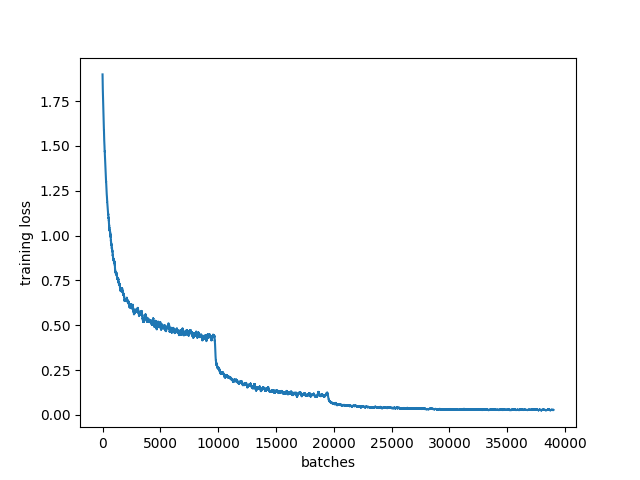
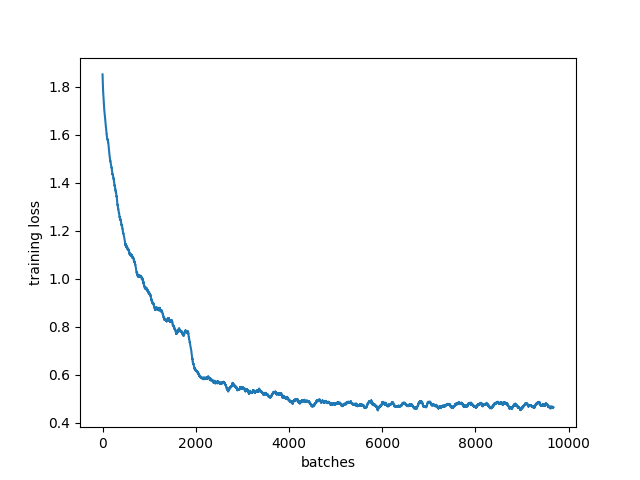
0510

diff --git a/final_project.py b/final_project.py
@@ -445,9 +445,9 @@ def implicit_block_newton_train(epoch, train_loss_tracker, train_acc_tracker):
 
 
 
-method = 'explicit' # SGD, explicit, implicit, newton
+method = 'SGD' # SGD, explicit, implicit, newton
 device = 'cuda'
-net = SmallConvNet()
+net = ConvNet()
 net = net.to(device)
 lr = 0.1 # 0.1, 1.0, 0.0001
 milestones = [5,10,15,20]
@@ -510,7 +510,7 @@ plt.savefig('figures/{}_testing_acc.png'.format(method))
 # plt.show()
 plt.clf()
 
-f_result = open('results/{}.csv'.format(method), 'w')
+f_result = open('results/big-{}.csv'.format(method), 'w')
 f_result.write('training loss,' + ','.join([str(x.item()) for x in moving_average_train_loss]) + '\n')
 f_result.write('testing accuracy,' + ','.join([str(x) for x in test_acc_tracker]) + '\n')
 f_result.close()
